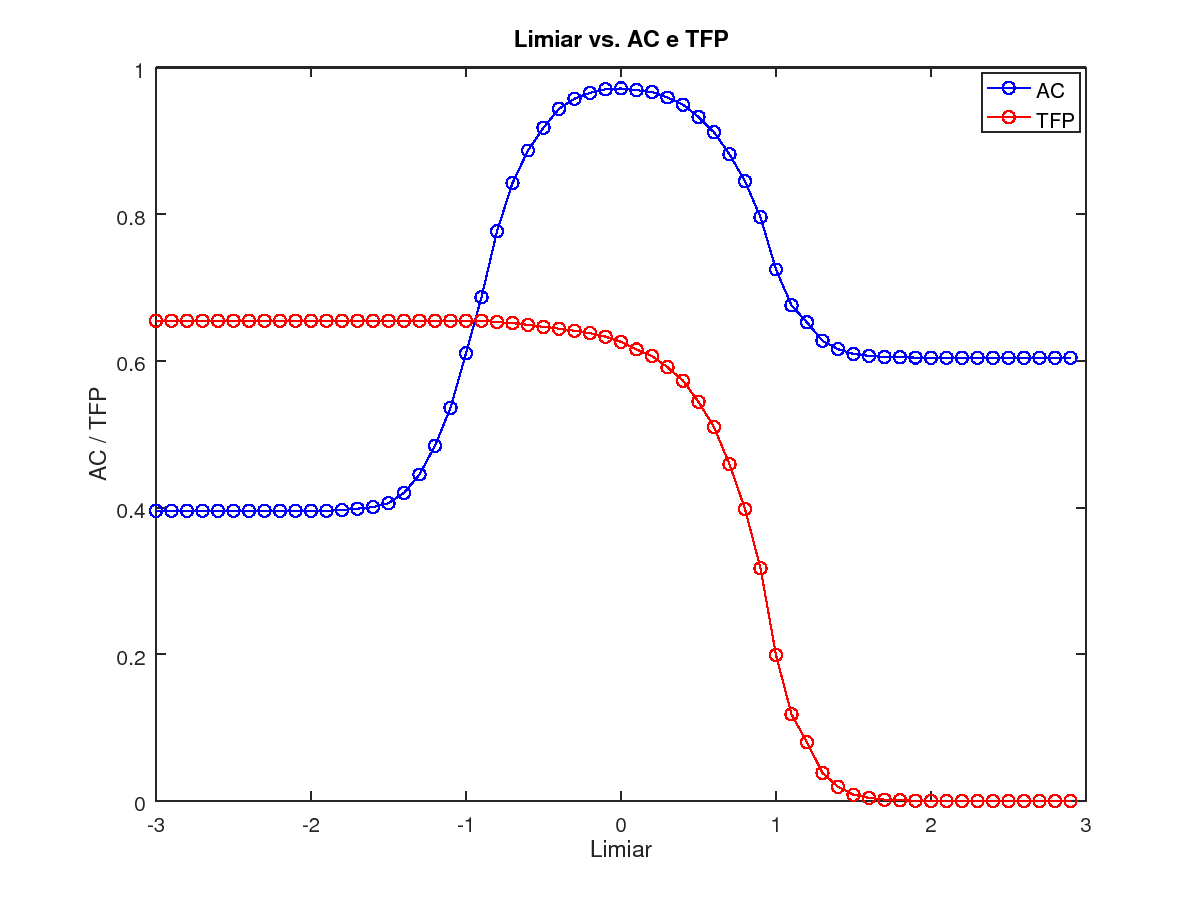
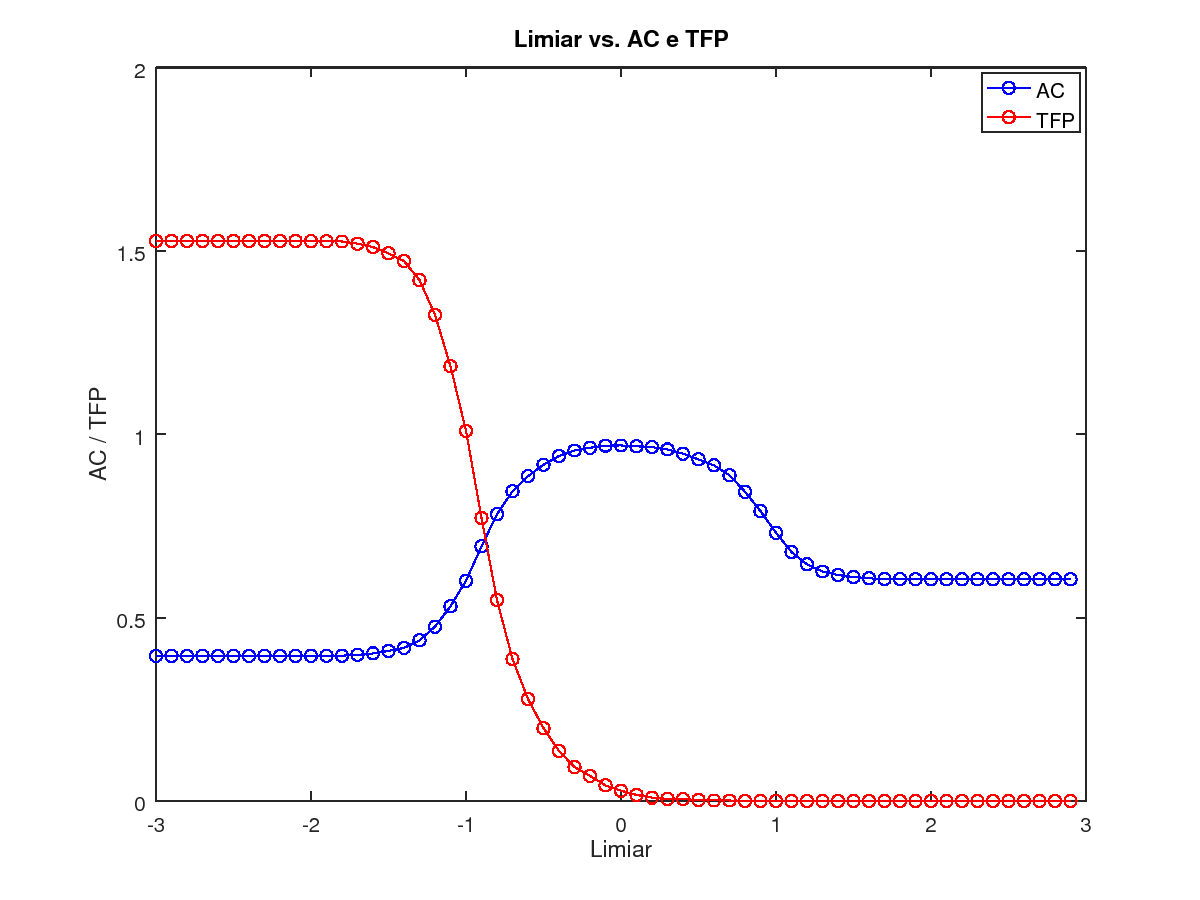
Fix getTFP (inverted)

diff --git a/projeto-2/getTFP.m b/projeto-2/getTFP.m
@@ -6,15 +6,14 @@ function tfp = getTFP(L, s, ytr)
 
   for i = 1:m
     if (L < s(i)) % detectado spam
-      if (ytr(i) == 1) % mas nao eh spam
+      if (ytr(i) == -1) % mas nao eh spam
         wspam++;
       end
     end
-    if (ytr(i) == -1) % se eh spam
+    if (ytr(i) == 1) % se eh spam
       spam++;
     end
   end
 
   tfp = wspam/spam;
-
 end
